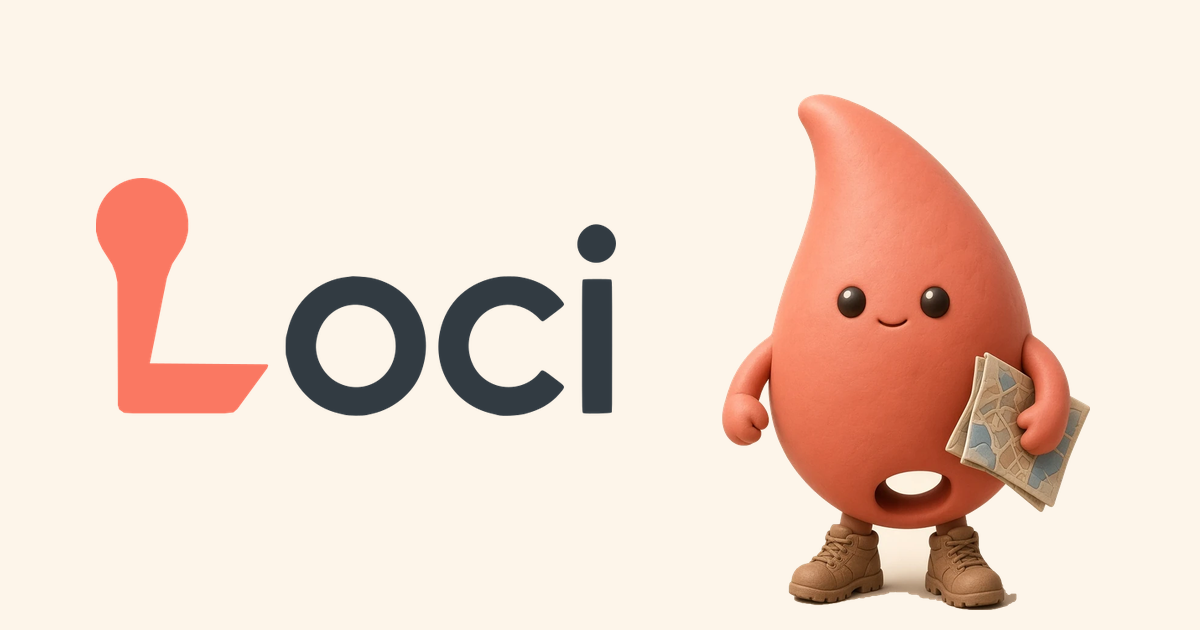
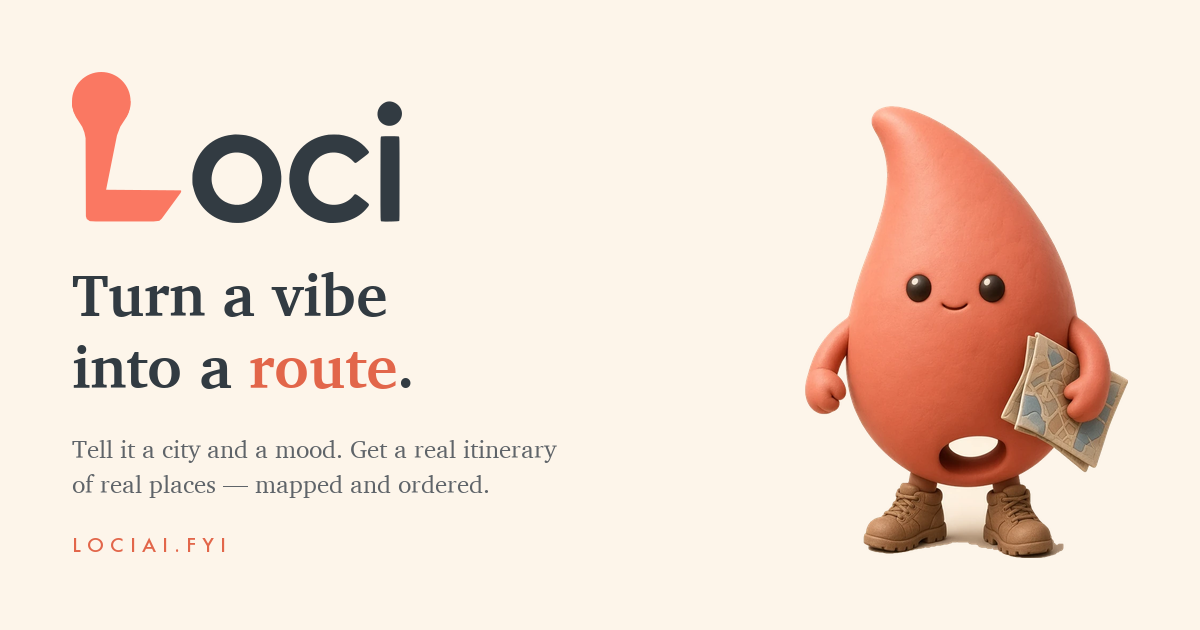
Make the shared link say what Loci is, and stop shipping two of every tag (#22)
* Make the shared link say what Loci is

The social card was the wordmark and the mascot on cream. That is decoration: a
stranger seeing the link in a chat window learned the name and nothing else.

It now carries the landing page's own headline — "Turn a vibe into a route." —
with "route" in coral the same way the page sets it, plus the sentence
underneath that says what actually happens, and the hostname. The wordmark is
rendered from logo.svg rather than set in type, so the mark is identical to
every other surface.

Built by tools/brand/make-og-card.py rather than by hand, because a card that
cannot be regenerated is a card nobody ever updates. The vertical rhythm is laid
out from the logo's fixed 1093:500 ratio, with each block starting where the
previous one ends — the first attempt hard-coded the offsets and the headline
collided with the wordmark.

Only the tagline needs a font. Fraunces is loaded from Google Fonts at runtime
and is not installed locally, and this is baked once rather than rendered per
view, so it is set in Charter: a transitional serif with the same warmth that
ships with macOS. The script says so and falls back rather than silently
substituting if it is absent.

og:image:alt and twitter:image:alt now describe what the card says instead of
what it depicts. Someone reading with a screen reader gets the promise, which is
the point of the card, rather than an inventory of its contents.

* Stop shipping two of every social tag
[…]

diff --git a/src/entry-server.tsx b/src/entry-server.tsx
@@ -63,10 +63,6 @@ const requestHandler = createHandler(() => (
           <meta name="apple-mobile-web-app-capable" content="yes" />
           <meta name="apple-mobile-web-app-status-bar-style" content="default" />
           <meta name="apple-mobile-web-app-title" content="Loci" />
-          <meta
-            name="description"
-            content="Discover, plan, and explore your next adventure with AI-powered travel recommendations"
-          />
           <meta name="format-detection" content="telephone=no" />
           <meta name="mobile-web-app-capable" content="yes" />
           <meta name="theme-color" content="#FDF5EA" />
@@ -90,34 +86,14 @@ const requestHandler = createHandler(() => (
           <meta name="msapplication-TileImage" content="/images/brand/icon-144.png" />
           <meta name="msapplication-config" content="/browserconfig.xml" />
 
-          {/* Open Graph - Using absolute URLs for better sharing */}
-          <meta property="og:type" content="website" />
-          <meta property="og:title" content="Loci - AI Travel Companion" />
-          <meta
-            property="og:description"
-            content="Discover, plan, and explore your next adventure with AI-powered travel recommendations"
-          />
-          <meta property="og:site_name" content="Loci" />
-          <meta property="og:url" content="https://lociai.fyi" />
-          <meta property="og:image" content="https://lociai.fyi/images/brand/og-image.png" />
-          <meta property="og:image:width" content="1200" />
-          <meta property="og:image:height" content="630" />
-          <meta property="og:image:type" content="image/png" />
-          <meta
-            property="og:image:alt"
-            content="The Loci wordmark beside the Loci mascot holding a map"
-          />
-
-          {/* Twitter - Using absolute URLs */}
-          <meta name="twitter:card" content="summary_large_image" />
-          <meta name="twitter:title" content="Loci - AI Travel Companion" />
-          <meta
-            name="twitter:description"
-            content="Discover, plan, and explore your next adventure with AI-powered travel recommendations"
-          />
-          <meta name="twitter:image" content="https://lociai.fyi/images/brand/og-image.png" />
-          <meta name="twitter:site" content="@loci" />
-          <meta name="twitter:creator" content="@loci" />
+          {/* Open Graph and Twitter live in app.tsx, not here.
+              Tags written into this raw document bypass MetaProvider, so a
+              route's own <Meta property="og:title"> could not replace them —
+              it appended a second one, and every page shipped duplicate
+              og:title, og:description and og:url. Crawlers pick between
+              duplicates inconsistently, so which title an unfurl showed was a
+              coin flip. Declared through @solidjs/meta they are deduped by
+              property, and a route overriding one actually overrides it. */}
 
           {/* Theme Initialization Script (Blocking) */}
           {/* eslint-disable-next-line solid/no-innerhtml */}

diff --git a/src/app.tsx b/src/app.tsx
@@ -2,7 +2,7 @@ import { Router, useLocation } from "@solidjs/router";
 import { FileRoutes } from "@solidjs/start/router";
 import { createMemo, Show, Suspense } from "solid-js";
 import { isChromeless } from "~/lib/chromeless-routes";
-import { MetaProvider } from "@solidjs/meta";
+import { Meta, MetaProvider } from "@solidjs/meta";
 import Nav from "~/components/Nav";
 import Footer from "~/components/Footer";
 import PWAInstall from "~/components/PWAInstall";
@@ -22,10 +22,53 @@ import ProfilePreferencesSync from "~/components/ProfilePreferencesSync";
 import ThemeMetaSync from "~/components/ThemeMetaSync";
 import UpgradePrompt from "~/components/UpgradePrompt";
 
+const CARD = "https://lociai.fyi/images/brand/og-image.png";
+const CARD_ALT =
+  "Loci — turn a vibe into a route. Tell it a city and a mood and get a real " +
+  "itinerary of real places, mapped and ordered.";
+
+/**
+ * The parts of the social card that are the same on every page.
+ *
+ * Only the invariant ones, deliberately. @solidjs/meta renders every <Meta> the
+ * tree declares and resolves duplicates on the client during hydration, using
+ * the data-sm cascade attribute — but a crawler reads the server's HTML and
+ * never hydrates, so anything declared here that a route also declares ships as
+ * a genuine duplicate. That is what was live: two og:title, two og:description
+ * and two og:url on every public page, and crawlers pick between duplicates
+ * inconsistently, so which one an unfurl showed was a coin flip.
+ *
+ * Title, description and URL therefore stay with the routes, which have the
+ * specific copy for them. A route that declares none still gets a complete
+ * card: the image and card type come from here, and crawlers fall back to
+ * <title> for the headline.
+ */
+function SocialDefaults() {
+  return (
+    <>
+      <Meta property="og:type" content="website" />
+      <Meta property="og:site_name" content="Loci" />
+      <Meta property="og:image" content={CARD} />
+      <Meta property="og:image:width" content="1200" />
+      <Meta property="og:image:height" content="630" />
+      <Meta property="og:image:type" content="image/png" />
+      <Meta property="og:image:alt" content={CARD_ALT} />
+      {/* summary_large_image is what makes the 1200x630 card render full-width
+          rather than as a small square thumbnail beside the text. */}
+      <Meta name="twitter:card" content="summary_large_image" />
+      <Meta name="twitter:image" content={CARD} />
+      <Meta name="twitter:image:alt" content={CARD_ALT} />
+      <Meta name="twitter:site" content="@loci" />
+      <Meta name="twitter:creator" content="@loci" />
+    </>
+  );
+}
+
 export default function App() {
   return (
     <QueryClientProvider client={queryClient}>
       <MetaProvider>
+        <SocialDefaults />
         <ThemeProvider>
           <ThemeMetaSync />
           <LanguageProvider>

diff --git a/tools/brand/make-og-card.py b/tools/brand/make-og-card.py
@@ -1,0 +1,108 @@
+"""Render the social card served as og:image.
+
+    python3 tools/brand/make-og-card.py
+
+1200x630 is the size every platform agrees on, and the one already declared in
+`og:image:width`/`height`. Content stays inside a 72px margin because several
+platforms crop toward a squarer ratio for small unfurls.
+
+The card exists to answer "what is this" to somebody who has never heard of
+Loci and is looking at a link in a chat window. So it carries the promise, not
+just the logo — the earlier version was the wordmark and the mascot alone, which
+is decoration.
+
+The wordmark comes from logo.svg rather than a font, so the mark is identical to
+every other surface. Only the tagline needs type, and it is set in Charter: the
+brand's Fraunces is loaded from Google Fonts at runtime and is not installed
+locally, and a card is baked once rather than rendered per view. Charter is a
+transitional serif with the same warmth, ships with macOS, and holds up at the
+size a unfurl is actually viewed at.
+"""
+
+import subprocess
+import sys
+from pathlib import Path
+
+from PIL import Image, ImageDraw, ImageFont
+
+ROOT = Path(__file__).resolve().parents[2]
+BRAND = ROOT / "public" / "images" / "brand"
+
+W, H = 1200, 630
+MARGIN = 72
+CREAM = "#FDF5EA"
+INK = "#323B42"
+CORAL = "#E2664A"  # the day-zero coral: 3.4:1 on cream, fine for display type
+MUTED = "#5F6469"
+
+SERIF = "/System/Library/Fonts/Supplemental/Charter.ttc"
+SANS = "/System/Library/Fonts/Supplemental/Futura.ttc"
+
+
+def font(path: str, size: int, index: int = 0) -> ImageFont.FreeTypeFont:
+    try:
+        return ImageFont.truetype(path, size, index=index)
+    except OSError:
+        print(f"warning: {path} unavailable, falling back", file=sys.stderr)
+        return ImageFont.load_default(size)
+
+
+def svg_to_image(svg: Path, width: int) -> Image.Image:
+    out = Path("/tmp") / (svg.stem + f"-{width}.png")
+    subprocess.run(
+        ["rsvg-convert", "-w", str(width), str(svg), "-o", str(out)],
+        check=True, capture_output=True,
+    )
+    return Image.open(out).convert("RGBA")
+
+
+def main() -> None:
+    card = Image.new("RGB", (W, H), CREAM)
+    draw = ImageDraw.Draw(card)
+
+    # Mascot first, on the right, bottom-aligned to the margin so it stands on
+    # the card rather than floating in it.
+    mascot = Image.open(BRAND / "mascot.webp")
+    mh = 452
+    mascot = mascot.resize((round(mascot.width * mh / mascot.height), mh), Image.LANCZOS)
+    card.paste(mascot, (W - MARGIN - mascot.width, H - MARGIN - mh), mascot)
+
+    # Vertical rhythm is laid out explicitly rather than by nudging: the logo is
+    # a fixed ratio (1093:500) so its height follows from its width, and every
+    # block below starts from where the previous one ends.
+    logo_w = 330
+    logo_h = round(logo_w * 500 / 1093)
+    logo = svg_to_image(BRAND / "logo.svg", logo_w)
+    card.paste(logo, (MARGIN, 72), logo)
+
+    # The landing page's own headline, and it colours "route" the same way.
+    head = font(SERIF, 60, index=3)  # 3 is Charter Bold; 1 is Italic
+    y = 72 + logo_h + 34
+    draw.text((MARGIN, y), "Turn a vibe", font=head, fill=INK)
+    y += 72
+    x = MARGIN
+    for word, colour in (("into a ", INK), ("route", CORAL), (".", INK)):
+        draw.text((x, y), word, font=head, fill=colour)
+        x += round(draw.textlength(word, font=head))
+
+    body = font(SERIF, 25)
+    draw.text(
+        (MARGIN, y + 104),
+        "Tell it a city and a mood. Get a real itinerary\nof real places — mapped and ordered.",
+        font=body, fill=MUTED, spacing=9,
+    )
+
+    host = font(SANS, 19, index=0)
+    draw.text((MARGIN, H - MARGIN - 26), "L O C I A I . F Y I", font=host, fill=CORAL)
+
+    png = BRAND / "og-image.png"
+    card.save(png, optimize=True)
+    subprocess.run(
+        ["cwebp", "-q", "90", "-m", "6", "-quiet", str(png), "-o", str(BRAND / "og-image.webp")],
+        check=True,
+    )
+    print(f"{png.relative_to(ROOT)}  {W}x{H}  {png.stat().st_size // 1024} KB")
+
+
+if __name__ == "__main__":
+    main()

diff --git a/public/images/brand/README.md b/public/images/brand/README.md
@@ -29,7 +29,7 @@ is coral.
 | Browser tab PNG fallback | `icon-32.png`, `icon-16.png` |
 | In-app header, buttons, avatars | `src/components/brand/Logo.tsx` |
 | Marketing page, README, docs | `logo.svg`, `mark.svg` |
-| Social card (Open Graph / Twitter) | `og-image.png` (1200×630) |
+| Social card (Open Graph / Twitter) | `og-image.png` (1200×630) — built by `tools/brand/make-og-card.py` |
 | Empty states, onboarding | `mascot.webp` / `mascot-sm.webp` |
 | Native empty states | `mascot.png` |
 | Marketing surfaces wanting the 3D treatment | `icon-tile.webp`, `icon-wordmark.webp`, `wordmark.webp` |
@@ -130,7 +130,28 @@ python3 -c "from PIL import Image; [Image.open(f'/tmp/icon-{s}.png').convert('RG
 # mascot
 python3 tools/brand/matte-mascot.py <mascot-render>.jpg public/images/brand/mascot.png
 cwebp -q 90 -m 6 -alpha_q 100 public/images/brand/mascot.png -o public/images/brand/mascot.webp
+
+# social card — composes logo.svg + mascot.webp + the tagline
+python3 tools/brand/make-og-card.py
 ```
+
+### The social card
+
+`og-image.png` is what a link to Loci looks like in a chat window, and it has to
+answer "what is this" to somebody who has never heard of it. So it carries the
+promise, not just the logo — an earlier version was the wordmark and the mascot
+alone, which is decoration.
+
+The wordmark is rendered from `logo.svg`, so the mark is identical to every
+other surface. Only the tagline needs type, and it is set in **Charter**: the
+brand's Fraunces is loaded from Google Fonts at runtime and is not installed
+locally, and this card is baked once rather than rendered per view. Charter is a
+transitional serif with the same warmth, ships with macOS, and holds up at the
+size an unfurl is actually viewed at. On a machine without it the script says so
+and falls back rather than silently substituting.
+
+Content stays inside a 72px margin: several platforms crop toward a squarer
+ratio for small previews.
 
 Tools used: `rsvg-convert`, `cwebp`, `potrace`, Pillow, SciPy.
 
